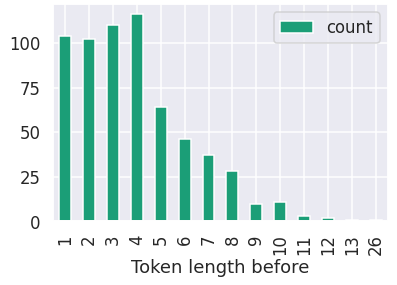
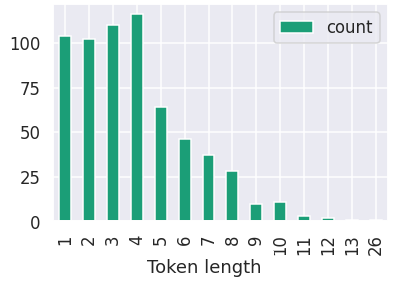
Fixed numberings for figures

Changed region(s): [[0.3325, 0.8982, 0.7859, 0.9825]]

diff --git a/docs/src/v2.tex b/docs/src/v2.tex
@@ -166,18 +166,23 @@ The NLTK function \textit{word\_tokenize()} was used to tokenize each comment. T
 \renewcommand{\lstlistingname}{Figure}% Listing -> Algorithm
 \renewcommand{\lstlistlistingname}{List of \lstlistingname s}% List of Listings -> List of Algorithms
 
-\begin{lstlisting}[caption={Implementation of tokenizer}, ,captionpos=b]
-    w = nltk.word_tokenize(comment.body)
-    wsb_words.extend(w)
-    count+=1
-    print("Comment:", comment.body)
-\end{lstlisting}
+\begin{figure}[H]
+	\begin{lstlisting}[gobble=10]
+	    w = nltk.word_tokenize(comment.body)
+	    wsb_words.extend(w)
+	    count+=1
+	    print("Comment:", comment.body)
+	\end{lstlisting}
+	\caption{Implementation of Tokenizer}
+\end{figure}
 
-
-\begin{lstlisting}[caption={Result of tokenizer}, ,captionpos=b]
-    Comment: Tesla calls!
-    Token results: ['Tesla', 'calls', '!']
-\end{lstlisting}
+\begin{figure}[H]
+	\begin{lstlisting}[gobble=10]
+	    Comment: Tesla calls!
+	    Token results: ['Tesla', 'calls', '!']
+	\end{lstlisting}
+	\caption{Result of Tokenizer}
+\end{figure}
 
 \subsection{Evaluation of tokenizer results}
 The tokenizer was successful in tokenizing most data in the chosen dataset. However, upon manual inspection of each tokenized result, we found some incorrect tokens as shown in Table~\ref{tab:token}. The incorrect tokens were mainly due to domain specific issues. For instance, in r/programming, the tokenizer incorrectly tokenized a line of code and separated the code into three tokens instead of one. Another common error is due to the separation of domain specific terminologies such as investment terms like “options flow” and names of mechanical switches like “Holy Pandas”.
@@ -217,13 +222,18 @@ Regular expressions could also be used to ensure sequences such as money express
 After getting the word tokens for each comment, the NLTK function porterStemmer() is used to reduce each word token to its root or base by removing common morphological and inflexional token endings.
 
 To ensure that the data used for plotting of token distribution would be meaningful, we added a list of stop words which are words that do not contribute to a deeper meaning for the analysis. Such words include common punctuations such as commas and fullstops. \linebreak
+\begin{figure}
+	\centering
+	\includegraphics[scale=0.55]{ss1.png}
+	\caption{Token length before stemming}
+\end{figure}
 
-\includegraphics[scale=0.55]{ss1.png}
 
-    \begin{figure}[H]
-        \centering
-        \includegraphics[scale=0.55]{ss2.png}
-    \end{figure}
+\begin{figure}[H]
+    \centering
+    \includegraphics[scale=0.55]{ss2.png}
+   	\caption{Token length after stemming}
+\end{figure}
 The distribution graphs above shows that most tokens have 4 number of characters. Prior to stemming, the upper range for length is from 10 to 26 number of characters. After stemming, this upper range significantly decreased to 7 to 9 number of characters. This is due to the process of stemming reducing common token endings, which thus translates into a lower number of characters. 
 
 \subsection{Sentence Segmentation}
@@ -233,8 +243,14 @@ The NLTK function \textit{sent\_tokenize()} uses an instance of \textit{PunktSen
 	\centering
 	\includegraphics[scale = 0.35]{sentence1.png}
 	\caption{Wallstreetbets}
+\end{figure}
+\begin{figure}[H]
+	\centering
 	\includegraphics[scale=0.35]{sentence2.png}
 	\caption{Mechanicalkeyboards}
+\end{figure}
+\begin{figure}[H]
+	\centering
 	\includegraphics[scale=0.35]{sentence3.png}
 	\caption{Programming}
 \end{figure}
